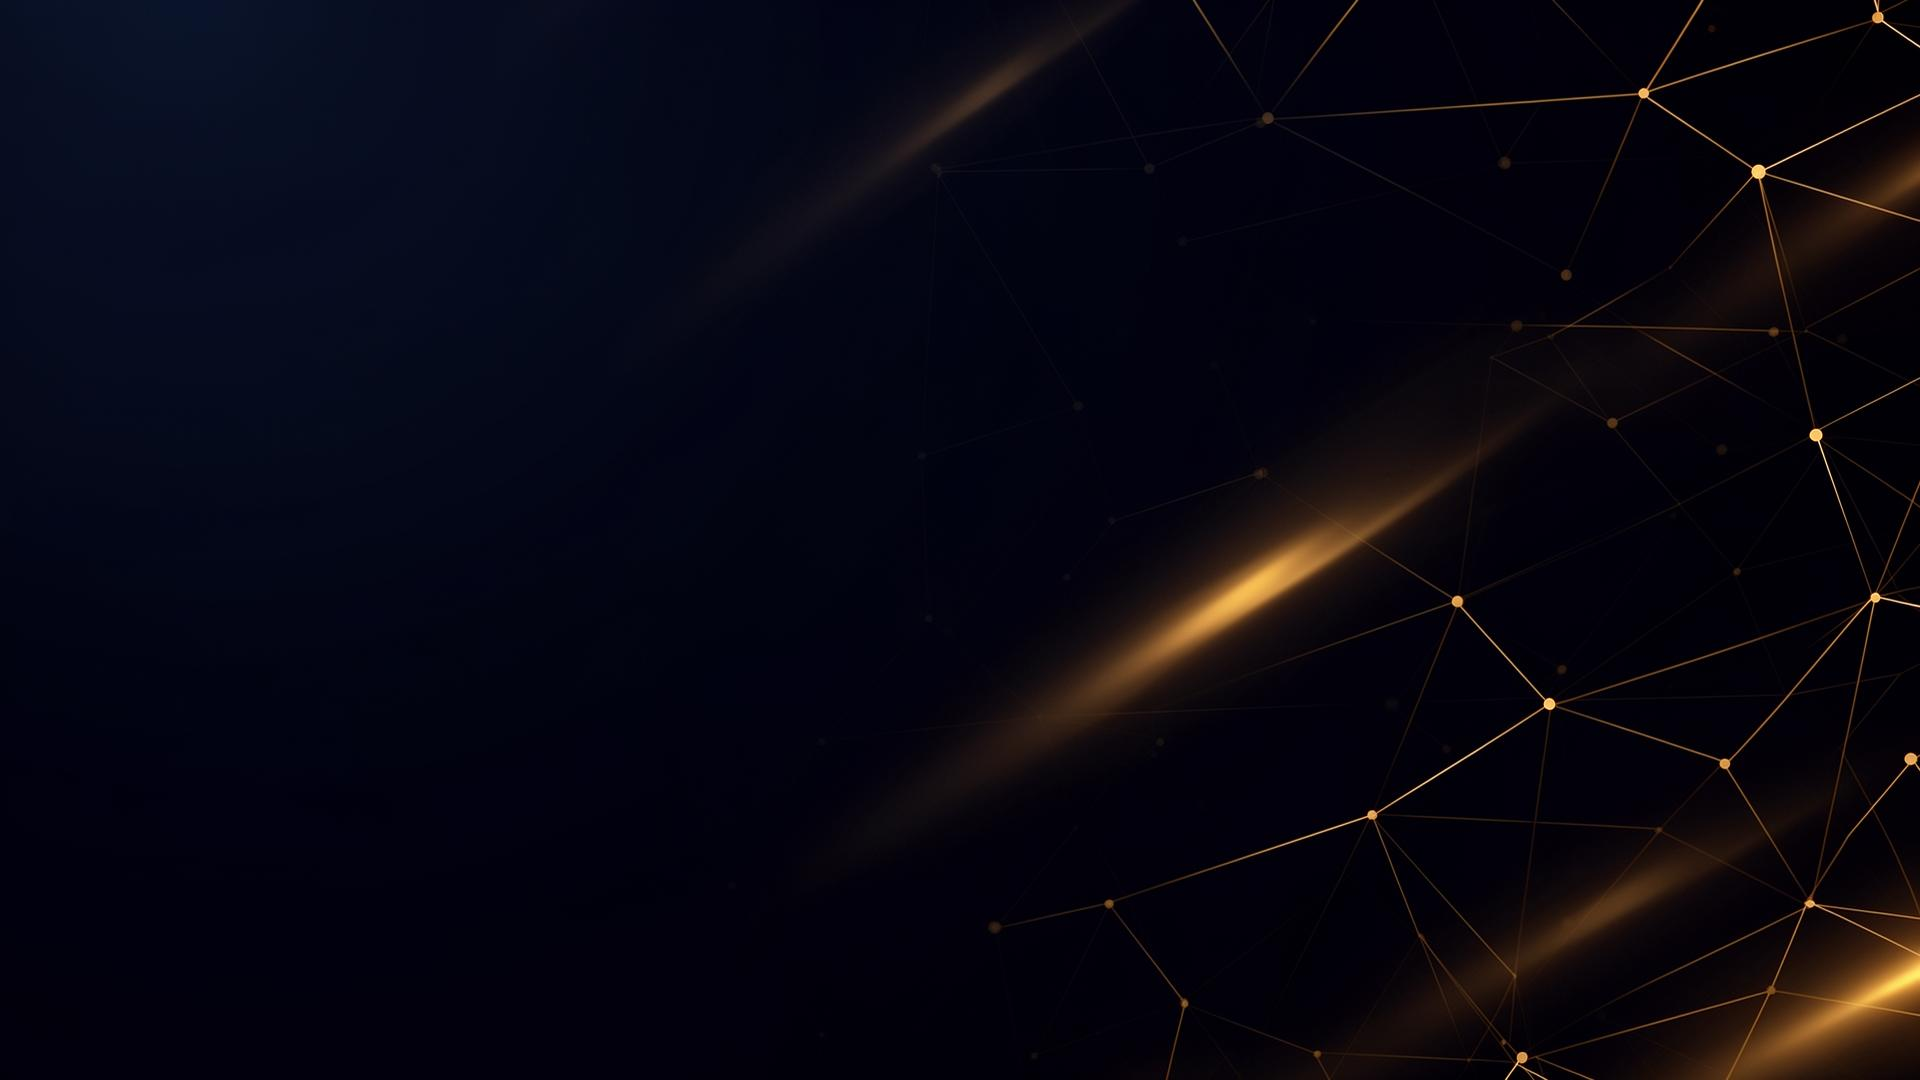
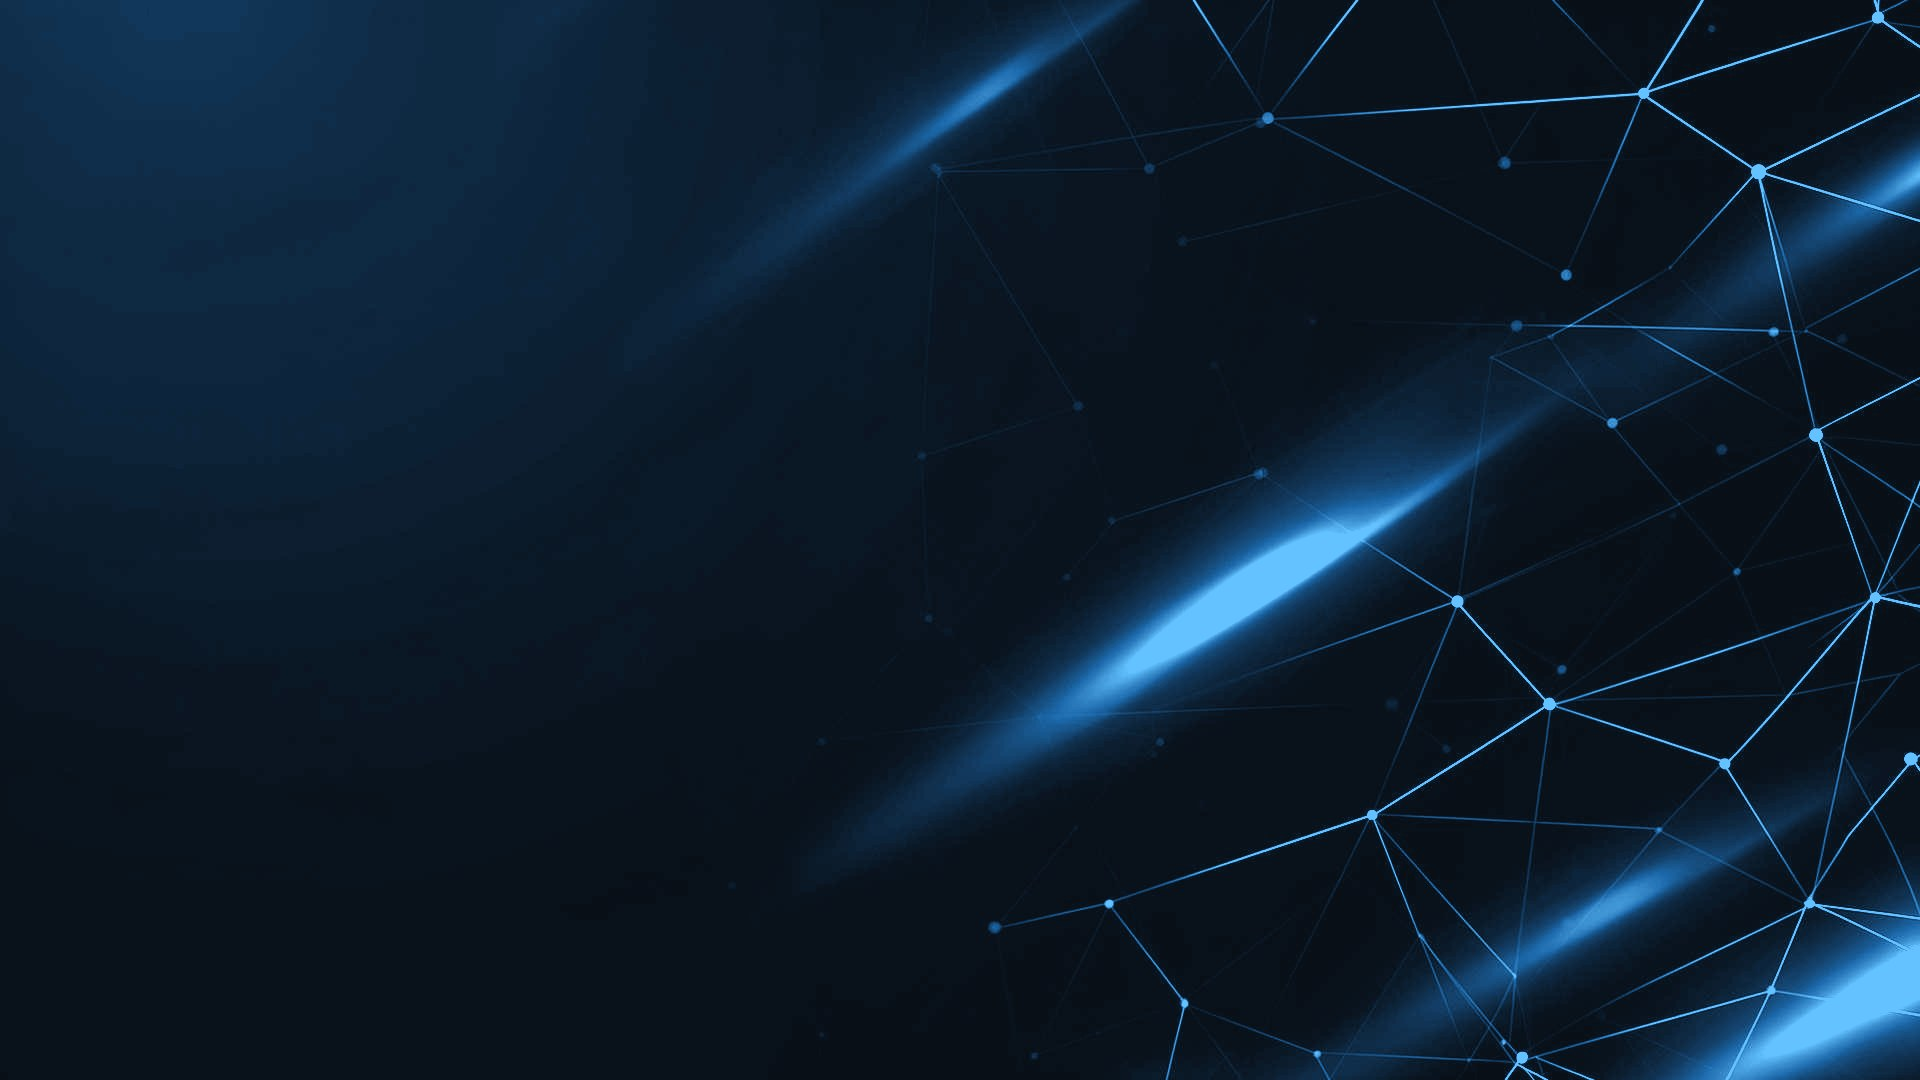
feat: rework theme to Petrol & Brass color scheme
Replace the navy+gold "template" palette with an electric-azure primary
and brass secondary on a deep petrol base, across dark, light, and
high-contrast modes. Brand tokens keep their --gold/--navy names for
back-compat; the new secondary is exposed as --brass (+ Tailwind color).

- globals.css: repoint all theme tokens; add --brass scale
- tailwind.config.ts: add brass color group
- button.tsx: hero glow now uses the theme token (was hardcoded amber)
  and proper text-primary-foreground contrast
- CoreOfferings / SampleDeliverables: alternate azure/brass accents
- hero-bg.jpg: duotone-recolored from gold to azure to match the scheme

diff --git a/styles/globals.css b/styles/globals.css
@@ -6,114 +6,125 @@
   /* ── DARK MODE (default) ───────────────────────────────── */
   :root,
   .dark {
-    --background: 220 20% 7%;
-    --foreground: 40 20% 92%;
+    /* ── Petrol & Brass — deep petrol base, electric azure accent, brass 2nd ── */
+    --background: 200 35% 7%;
+    --foreground: 200 20% 92%;
 
-    --card: 220 18% 10%;
-    --card-foreground: 40 20% 92%;
+    --card: 200 28% 11%;
+    --card-foreground: 200 20% 92%;
 
-    --popover: 220 18% 10%;
-    --popover-foreground: 40 20% 92%;
+    --popover: 200 28% 11%;
+    --popover-foreground: 200 20% 92%;
 
-    --primary: 40 65% 55%;
-    --primary-foreground: 220 20% 7%;
+    --primary: 203 70% 60%;
+    --primary-foreground: 200 35% 7%;
 
-    --secondary: 220 15% 15%;
-    --secondary-foreground: 40 20% 85%;
+    --secondary: 200 14% 17%;
+    --secondary-foreground: 200 18% 85%;
 
-    --muted: 220 15% 13%;
-    --muted-foreground: 220 10% 55%;
+    --muted: 200 14% 14%;
+    --muted-foreground: 200 12% 60%;
 
-    --accent: 40 65% 55%;
-    --accent-foreground: 220 20% 7%;
+    --accent: 203 70% 60%;
+    --accent-foreground: 200 35% 7%;
 
     --destructive: 0 84.2% 60.2%;
     --destructive-foreground: 210 40% 98%;
 
-    --border: 220 15% 18%;
-    --input: 220 15% 18%;
-    --ring: 40 65% 55%;
+    --border: 200 20% 18%;
+    --input: 200 20% 18%;
+    --ring: 203 70% 60%;
 
     --radius: 0.5rem;
 
-    --gold: 40 65% 55%;
-    --gold-light: 40 70% 70%;
-    --gold-dark: 40 55% 40%;
-    --navy: 220 20% 7%;
-    --navy-light: 220 18% 12%;
-    --navy-lighter: 220 15% 18%;
-    --warm-white: 40 20% 92%;
-    --warm-gray: 220 10% 55%;
+    /* Brand tokens keep their names (gold/navy) for back-compat; values now azure/petrol. */
+    --gold: 203 70% 60%;
+    --gold-light: 190 75% 68%;
+    --gold-dark: 204 60% 48%;
+    --navy: 200 35% 7%;
+    --navy-light: 200 28% 13%;
+    --navy-lighter: 200 20% 19%;
+    --warm-white: 200 20% 92%;
+    --warm-gray: 200 12% 60%;
 
-    --gradient-gold: linear-gradient(135deg, hsl(40 65% 55%), hsl(40 70% 70%));
-    --gradient-navy: linear-gradient(180deg, hsl(220 20% 7%), hsl(220 18% 12%));
-    --gradient-card: linear-gradient(145deg, hsl(220 18% 12%), hsl(220 15% 9%));
-    --shadow-gold: 0 4px 30px -4px hsl(40 65% 55% / 0.15);
+    /* Secondary accent (brass). */
+    --brass: 38 92% 56%;
+    --brass-light: 42 96% 66%;
+    --brass-dark: 34 84% 46%;
+
+    --gradient-gold: linear-gradient(135deg, hsl(203 70% 60%), hsl(190 75% 68%));
+    --gradient-navy: linear-gradient(180deg, hsl(200 35% 7%), hsl(200 28% 12%));
+    --gradient-card: linear-gradient(145deg, hsl(200 28% 13%), hsl(200 25% 9%));
+    --shadow-gold: 0 4px 30px -4px hsl(203 70% 60% / 0.18);
     --shadow-card: 0 8px 40px -12px hsl(0 0% 0% / 0.5);
 
-    --sidebar-background: 220 18% 10%;
-    --sidebar-foreground: 40 20% 92%;
-    --sidebar-primary: 40 65% 55%;
-    --sidebar-primary-foreground: 220 20% 7%;
-    --sidebar-accent: 220 15% 15%;
-    --sidebar-accent-foreground: 40 20% 92%;
-    --sidebar-border: 220 15% 18%;
-    --sidebar-ring: 40 65% 55%;
+    --sidebar-background: 200 28% 11%;
+    --sidebar-foreground: 200 20% 92%;
+    --sidebar-primary: 203 70% 60%;
+    --sidebar-primary-foreground: 200 35% 7%;
+    --sidebar-accent: 200 14% 17%;
+    --sidebar-accent-foreground: 200 20% 92%;
+    --sidebar-border: 200 20% 19%;
+    --sidebar-ring: 203 70% 60%;
   }
 
-  /* ── LIGHT MODE — Clean Ivory/Gold ────────────────────── */
+  /* ── LIGHT MODE — Cool Mist / Azure & Brass ───────────── */
   .light {
-    --background: 40 30% 96%;
-    --foreground: 220 25% 12%;
+    --background: 205 45% 96%;
+    --foreground: 205 35% 14%;
 
-    --card: 40 25% 99%;
-    --card-foreground: 220 25% 12%;
+    --card: 0 0% 100%;
+    --card-foreground: 205 35% 14%;
 
-    --popover: 40 25% 99%;
-    --popover-foreground: 220 25% 12%;
+    --popover: 0 0% 100%;
+    --popover-foreground: 205 35% 14%;
 
-    --primary: 40 60% 42%;
-    --primary-foreground: 40 30% 96%;
+    --primary: 204 72% 44%;
+    --primary-foreground: 0 0% 100%;
 
-    --secondary: 40 20% 90%;
-    --secondary-foreground: 220 25% 20%;
+    --secondary: 205 30% 90%;
+    --secondary-foreground: 205 35% 22%;
 
-    --muted: 40 15% 91%;
-    --muted-foreground: 220 15% 40%;
+    --muted: 205 25% 91%;
+    --muted-foreground: 205 16% 40%;
 
-    --accent: 40 60% 42%;
-    --accent-foreground: 40 30% 96%;
+    --accent: 204 72% 44%;
+    --accent-foreground: 0 0% 100%;
 
     --destructive: 0 72% 51%;
     --destructive-foreground: 0 0% 98%;
 
-    --border: 40 20% 82%;
-    --input: 40 20% 82%;
-    --ring: 40 60% 42%;
+    --border: 205 35% 86%;
+    --input: 205 35% 86%;
+    --ring: 204 72% 44%;
 
-    --gold: 40 60% 42%;
-    --gold-light: 40 65% 58%;
-    --gold-dark: 40 50% 30%;
-    --navy: 40 30% 96%;
-    --navy-light: 40 25% 93%;
-    --navy-lighter: 40 20% 88%;
-    --warm-white: 220 25% 12%;
-    --warm-gray: 220 15% 40%;
+    --gold: 204 72% 44%;
+    --gold-light: 200 70% 55%;
+    --gold-dark: 206 65% 34%;
+    --navy: 205 45% 96%;
+    --navy-light: 205 35% 92%;
+    --navy-lighter: 205 30% 86%;
+    --warm-white: 205 35% 14%;
+    --warm-gray: 205 16% 40%;
 
-    --gradient-gold: linear-gradient(135deg, hsl(40 60% 42%), hsl(40 65% 58%));
-    --gradient-navy: linear-gradient(180deg, hsl(40 30% 96%), hsl(40 25% 93%));
-    --gradient-card: linear-gradient(145deg, hsl(40 25% 99%), hsl(40 20% 95%));
-    --shadow-gold: 0 4px 30px -4px hsl(40 60% 42% / 0.2);
-    --shadow-card: 0 8px 40px -12px hsl(220 20% 20% / 0.15);
+    --brass: 37 90% 44%;
+    --brass-light: 40 86% 54%;
+    --brass-dark: 34 82% 34%;
 
-    --sidebar-background: 40 25% 99%;
-    --sidebar-foreground: 220 25% 12%;
-    --sidebar-primary: 40 60% 42%;
-    --sidebar-primary-foreground: 40 30% 96%;
-    --sidebar-accent: 40 20% 90%;
-    --sidebar-accent-foreground: 220 25% 12%;
-    --sidebar-border: 40 20% 82%;
-    --sidebar-ring: 40 60% 42%;
+    --gradient-gold: linear-gradient(135deg, hsl(204 72% 44%), hsl(192 70% 48%));
+    --gradient-navy: linear-gradient(180deg, hsl(205 45% 96%), hsl(205 35% 92%));
+    --gradient-card: linear-gradient(145deg, hsl(0 0% 100%), hsl(205 30% 95%));
+    --shadow-gold: 0 4px 30px -4px hsl(204 72% 44% / 0.2);
+    --shadow-card: 0 8px 40px -12px hsl(205 30% 20% / 0.15);
+
+    --sidebar-background: 0 0% 100%;
+    --sidebar-foreground: 205 35% 14%;
+    --sidebar-primary: 204 72% 44%;
+    --sidebar-primary-foreground: 0 0% 100%;
+    --sidebar-accent: 205 30% 90%;
+    --sidebar-accent-foreground: 205 35% 14%;
+    --sidebar-border: 205 35% 86%;
+    --sidebar-ring: 204 72% 44%;
   }
 
   /* ── HIGH CONTRAST — bolder text, sharper colours ─────── */
@@ -123,14 +134,14 @@
     --foreground: 0 0% 100%;
     --card-foreground: 0 0% 100%;
     --muted-foreground: 0 0% 82%;
-    --border: 220 15% 40%;
+    --border: 200 16% 40%;
   }
   /* Light mode: push text toward near-black, heavier weight */
   .light.high-contrast {
     --foreground: 220 40% 3%;
     --card-foreground: 220 40% 3%;
-    --muted-foreground: 220 30% 15%;
-    --border: 40 25% 55%;
+    --muted-foreground: 205 30% 15%;
+    --border: 205 25% 55%;
   }
 
   /* Font-weight boost applied in ALL themes when high-contrast is active */

diff --git a/components/layout/SampleDeliverables.tsx b/components/layout/SampleDeliverables.tsx
@@ -62,11 +62,11 @@ const SampleDeliverables = () => {
             </div>
           </div>
 
-          {/* Audit Card */}
-          <div className="rounded-xl border border-border bg-card p-8 hover:border-gold/20 transition-colors">
+          {/* Audit Card — brass secondary accent (review counterpart to the azure blueprint) */}
+          <div className="rounded-xl border border-border bg-card p-8 hover:border-brass/20 transition-colors">
             <div className="flex items-center gap-3 mb-6">
-              <div className="p-2 rounded-lg bg-gold/10">
-                <AlertTriangle className="w-5 h-5 text-gold" />
+              <div className="p-2 rounded-lg bg-brass/10">
+                <AlertTriangle className="w-5 h-5 text-brass" />
               </div>
               <div>
                 <h3 className="text-lg font-bold text-foreground font-serif">{au.title}</h3>
@@ -84,13 +84,13 @@ const SampleDeliverables = () => {
                 const Icon = icons[i % icons.length];
                 return (
                   <div key={finding.title} className="flex items-start gap-3 p-3 rounded-lg bg-muted/50">
-                    <Icon className="w-4 h-4 text-gold flex-shrink-0 mt-0.5" />
+                    <Icon className="w-4 h-4 text-brass flex-shrink-0 mt-0.5" />
                     <div>
                       <div className="flex items-center gap-2">
                         <span className="text-sm font-semibold text-foreground">{finding.title}</span>
                         <span className={`text-[10px] px-1.5 py-0.5 rounded font-bold uppercase tracking-wider ${
                           i === 0 ? "bg-destructive/20 text-destructive" :
-                          i <= 2 ? "bg-gold/15 text-gold" :
+                          i <= 2 ? "bg-brass/15 text-brass" :
                           "bg-muted text-muted-foreground"
                         }`}>{finding.severity}</span>
                       </div>
@@ -102,11 +102,11 @@ const SampleDeliverables = () => {
             </div>
 
             <div className="border-t border-border pt-5">
-              <p className="text-xs font-semibold text-gold uppercase tracking-wider mb-3">{au.outcomeLabel}</p>
+              <p className="text-xs font-semibold text-brass uppercase tracking-wider mb-3">{au.outcomeLabel}</p>
               <div className="grid grid-cols-3 gap-2 md:gap-3">
                 {au.stats.map((stat) => (
-                  <div key={stat.label} className="text-center p-2 md:p-3 rounded-lg bg-gold/5 border border-gold/10">
-                    <p className="text-base md:text-lg font-bold text-gold">{stat.metric}</p>
+                  <div key={stat.label} className="text-center p-2 md:p-3 rounded-lg bg-brass/5 border border-brass/10">
+                    <p className="text-base md:text-lg font-bold text-brass">{stat.metric}</p>
                     <p className="text-[9px] md:text-[10px] text-muted-foreground uppercase tracking-wider leading-tight mt-1">{stat.label}</p>
                   </div>
                 ))}

diff --git a/components/layout/CoreOfferings.tsx b/components/layout/CoreOfferings.tsx
@@ -9,6 +9,11 @@ const offeringLinks = [
   "/services/technical-architecture-review",
   "/services/ai-technical-due-diligence",
 ];
+// Alternate the primary (azure) and secondary (brass) accent for visual rhythm.
+const accentStyles = [
+  { num: "text-gold/50", icon: "text-gold", border: "hover:border-gold/30", shadow: "hover:shadow-[0_4px_30px_-4px_hsl(var(--gold)/0.1)]" },
+  { num: "text-brass/50", icon: "text-brass", border: "hover:border-brass/30", shadow: "hover:shadow-[0_4px_30px_-4px_hsl(var(--brass)/0.1)]" },
+];
 
 const CoreOfferings = () => {
   const { t, language } = useGlobalUX();
@@ -25,17 +30,18 @@ const CoreOfferings = () => {
         <div className="grid md:grid-cols-2 lg:grid-cols-3 gap-6">
           {s.offerings.map((offering, i) => {
             const Icon = icons[i % icons.length];
+            const a = accentStyles[i % accentStyles.length];
             return (
               <Link
                 key={offering.title}
                 href={isAr && offeringLinks[i]?.startsWith('/services/')
                   ? `/ar/services/${getArabicServiceForEnglishSlug(offeringLinks[i].replace('/services/', ''))?.slug || offeringLinks[i].replace('/services/', '')}`
                   : offeringLinks[i] || "/#assessment"}
-                className="group relative p-8 rounded-xl bg-card border border-border/50 hover:border-gold/30 transition-all duration-300 hover:shadow-[0_4px_30px_-4px_hsl(40_65%_55%/0.1)]"
+                className={`group relative p-8 rounded-xl bg-card border border-border/50 transition-all duration-300 ${a.border} ${a.shadow}`}
               >
                 <div className="flex items-center gap-3 mb-5">
-                  <span className="text-xs font-bold text-gold/50 tracking-widest">{String(i + 1).padStart(2, '0')}</span>
-                  <Icon className="w-5 h-5 text-gold" />
+                  <span className={`text-xs font-bold ${a.num} tracking-widest`}>{String(i + 1).padStart(2, '0')}</span>
+                  <Icon className={`w-5 h-5 ${a.icon}`} />
                 </div>
                 <h3 className="text-lg font-bold text-foreground mb-3 font-serif">{offering.title}</h3>
                 <p className="text-sm text-muted-foreground leading-relaxed">{offering.description}</p>

diff --git a/components/ui/button.tsx b/components/ui/button.tsx
@@ -19,7 +19,7 @@ const buttonVariants = cva(
           "bg-secondary text-secondary-foreground shadow-sm hover:bg-secondary/80",
         ghost: "hover:bg-accent hover:text-accent-foreground",
         link: "text-primary underline-offset-4 hover:underline",
-        hero: "bg-gold text-navy-lighter shadow-[0_0_20px_rgba(200,168,75,0.3)] hover:shadow-[0_0_30px_rgba(200,168,75,0.5)] hover:-translate-y-0.5 border border-gold/50",
+        hero: "bg-gold text-primary-foreground shadow-[0_0_24px_-2px_hsl(var(--gold)/0.35)] hover:shadow-[0_0_36px_-2px_hsl(var(--gold)/0.55)] hover:-translate-y-0.5 border border-gold/50",
         heroOutline: "bg-transparent text-foreground border border-gold/30 hover:border-gold hover:bg-gold/5",
         glass: "bg-white/5 backdrop-blur-md border border-white/10 text-foreground hover:bg-white/10"
       },

diff --git a/tailwind.config.ts b/tailwind.config.ts
@@ -66,6 +66,11 @@ export default {
           light: "hsl(var(--navy-light))",
           lighter: "hsl(var(--navy-lighter))",
         },
+        brass: {
+          DEFAULT: "hsl(var(--brass))",
+          light: "hsl(var(--brass-light))",
+          dark: "hsl(var(--brass-dark))",
+        },
         sidebar: {
           DEFAULT: "hsl(var(--sidebar-background))",
           foreground: "hsl(var(--sidebar-foreground))",
